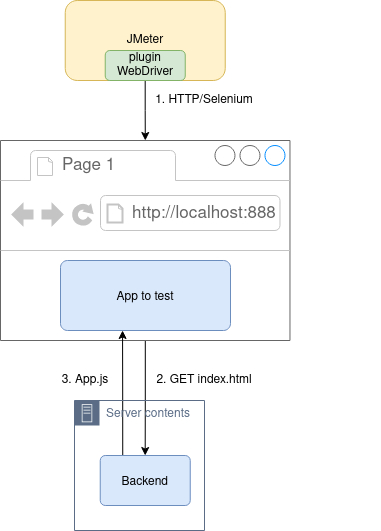
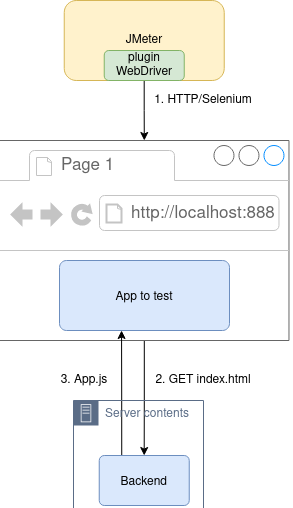
doc: update README

Changed region(s): [[0.0, 0.0, 1.0, 1.0]]

diff --git a/README.md b/README.md
@@ -4,6 +4,8 @@ The goal is to determine which technologies are best suited for the Iroco projec
 In this repo you can find front and back end technologies with the same set of features relevant to a mail application. 
 In each case we provide a full set of tests and comparative results.
 
+![architecture](slideshow/images/jmeter-selenium.png)
+
 ## Features
 
 To compare technologies we developed the same set of features:
